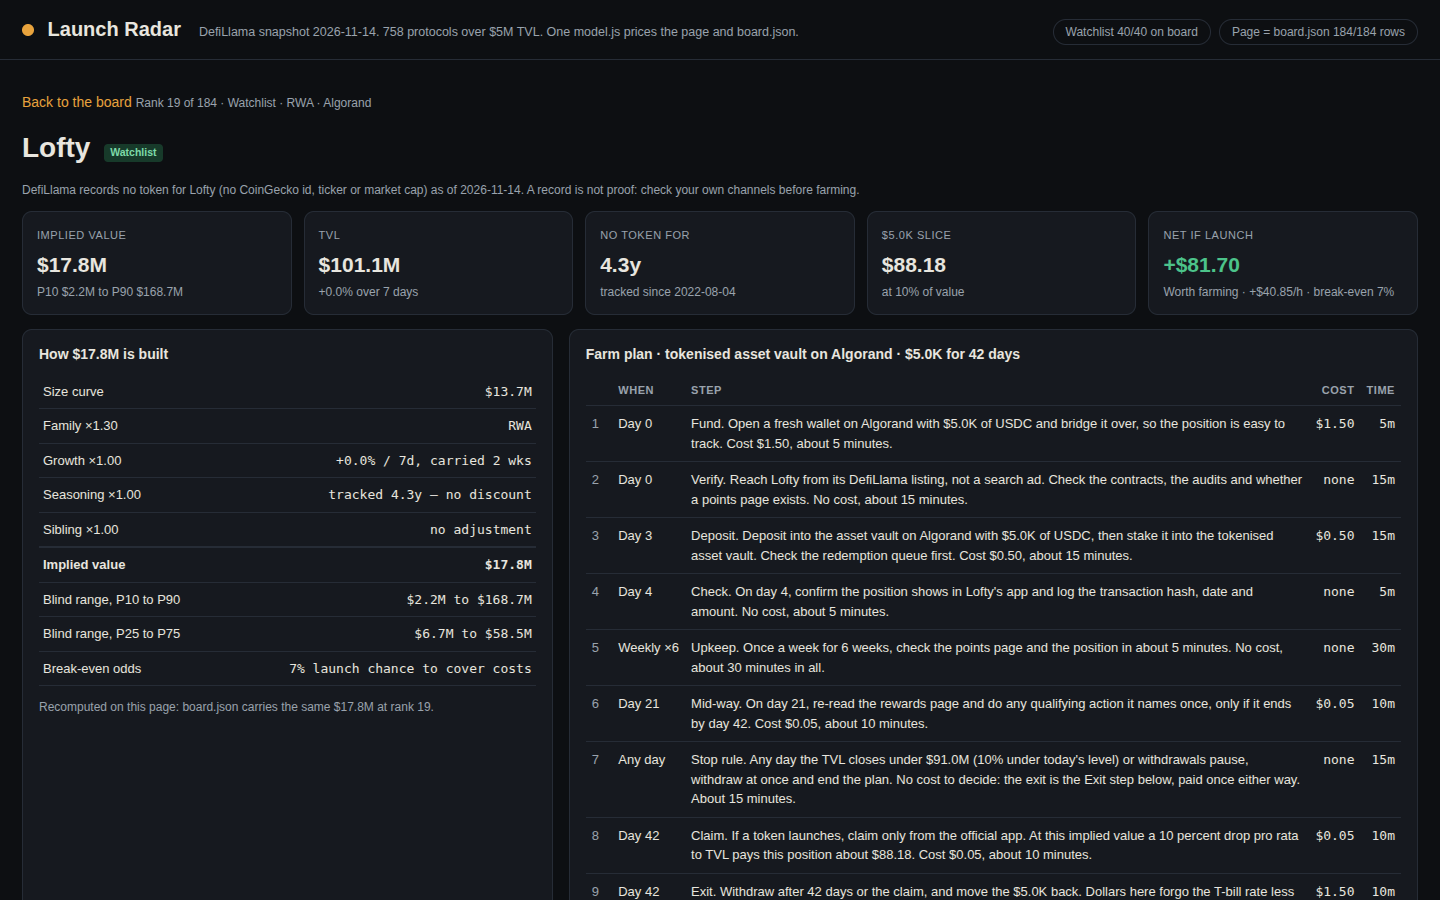
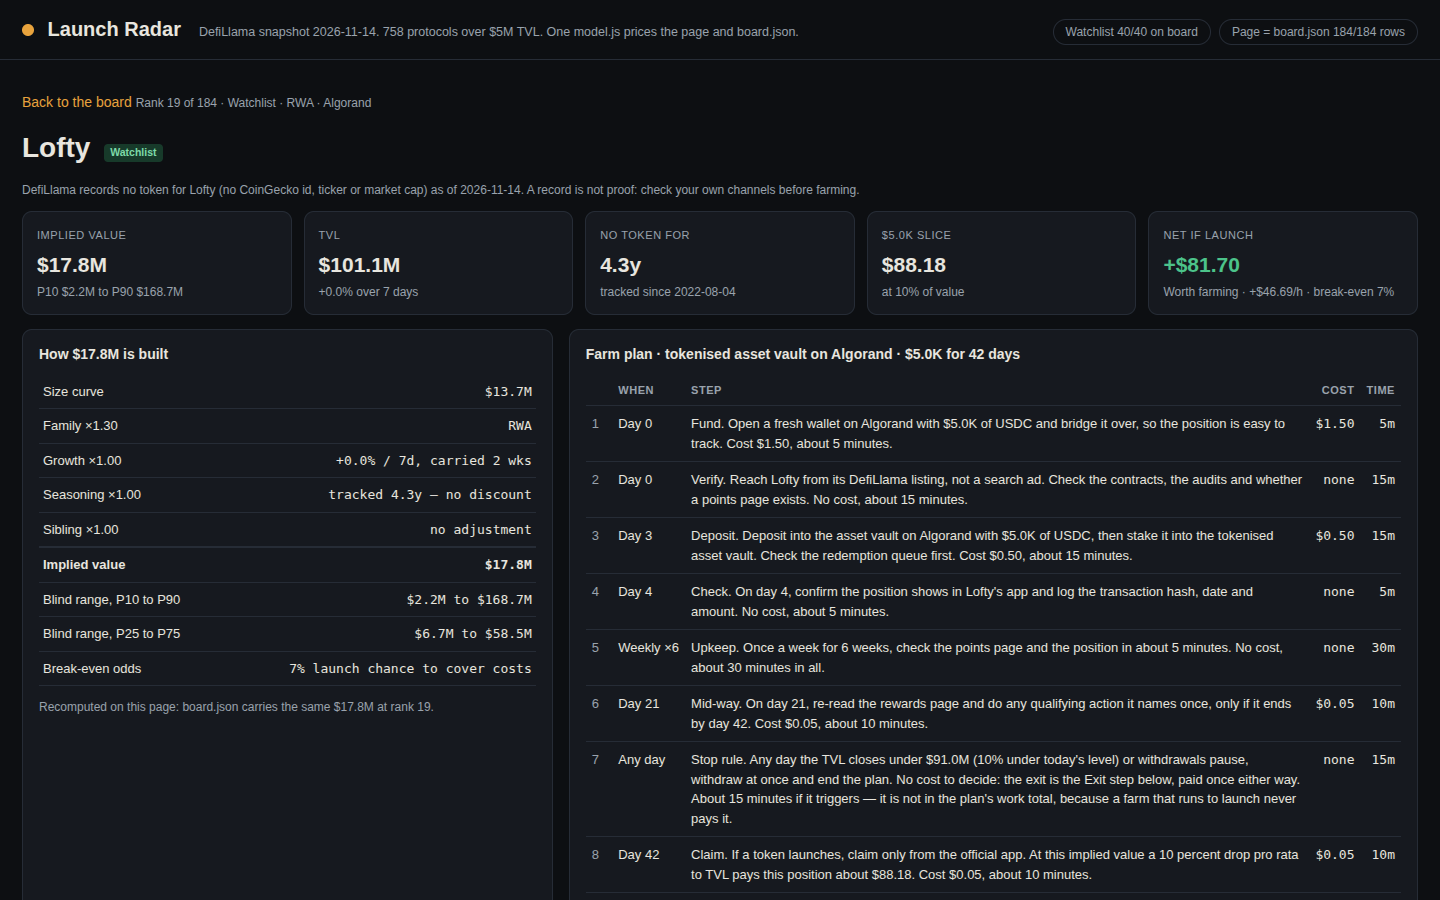
v6: work hours count the completion path (105 min, stop rule excluded)
The 120-minute total counted both the stop-rule exit (15 min) and the
Exit step (10 min) - a path that never happens: a farm either exits
early via the stop rule or exits at day 42, never both. The net in
net-per-hour is the launch-case net, so the denominator must be the
completion-path time: 105 minutes. Same convention as the published
top entry (its steps sum to 170 minutes, its total reads 155).
Documented on the method page and in the stop-rule step text.
Effect: watchlist best net/hour Lofty $40.85 -> $46.69/h; counts,
curve, validation unchanged. Gate 7/7, determinism 2x byte-identical.

Changed region(s): [[0.4375, 0.8711, 0.9688, 0.9956]]

diff --git a/dashboard/app.js b/dashboard/app.js
@@ -507,7 +507,7 @@
       "<tr><td>Blind range multipliers, P10 / P25 / P75 / P90</td><td>x" + v.p10Mult.toFixed(2) + " / x" + v.p25Mult.toFixed(2) + " / x" + v.p75Mult.toFixed(2) + " / x" + v.p90Mult.toFixed(2) + "</td></tr>" +
       "</table><p class='fine'>The band is wide because launches are genuinely uncertain, and the board shows it instead of hiding it.</p>" +
       "<h3>Factor check</h3><p>The blind residuals correlate r = " + v.factorCheck.corrDays.toFixed(2) + " with log days without a token and r = " + v.factorCheck.corrGrowth.toFixed(2) + " with 7-day TVL change (" + v.factorCheck.n + " tokens with a listing date). The fitted seasoning slope is " + v.factorCheck.seasonSlope.toFixed(2) + " per decade of days — within noise. Neither an age effect nor a leftover momentum effect is confirmed, so seasoning is kept only as a bounded prior and growth is only the two-week carry.</p>" +
-      "<h3>Farm verdicts</h3><p>Verdict is break-even odds: (fees + T-bill forgone) / slice — the launch probability the farm needs to cover its costs. <b>Worth farming</b> at break-even odds ≤ 10% (pays if 1 hold in 10 sees a launch), <b>marginal</b> at ≤ 25%, else <b>skip</b>; a 7-day TVL fall past -30% caps the verdict at marginal. Farm economics: up to " + money(D.sliceCapital) + " of capital for " + D.farmDays + " days (a typical points-season window), the deposit scaled to the pool — 1bp of TVL, $500 to $5,000 — T-bill 4% a year less the deposit's 3.5% yield, so only the 0.5% spread is forgone, gas on the cheapest of the protocol's first three chains, a bridge leg each way at $1.00, claim $0.05. The deposit yield is a stated assumption, not a snapshot field: the median large stablecoin pool paid a 4.07% 30-day base APY against a 4.17% T-bill (DeFiLlama Research, 12 Nov 2026), so 3.5% sits below the median and is conservative. The farm is sized at " + money(D.sliceCapital) + " because that is the deployment a points-season farm actually runs; at a $1,000 cap the same rule gives 35 worth, 84 marginal and 65 skip, so the verdict still discriminates, but $5,000 is the calibrated size and the one the published top entry uses. At " + money(D.sliceCapital) + " it gives " + D.counts.farm + " worth, " + D.counts.thin + " marginal and " + D.counts.skip + " skip. Net per hour is net divided by the plan's work hours; the board's best on the watchlist is " + D.bestNetPerHour.map(function (r) { return r.name + " " + signed(r.netPerHour) + "/h"; }).join(", ") + ".</p>" +
+      "<h3>Farm verdicts</h3><p>Verdict is break-even odds: (fees + T-bill forgone) / slice — the launch probability the farm needs to cover its costs. <b>Worth farming</b> at break-even odds ≤ 10% (pays if 1 hold in 10 sees a launch), <b>marginal</b> at ≤ 25%, else <b>skip</b>; a 7-day TVL fall past -30% caps the verdict at marginal. Farm economics: up to " + money(D.sliceCapital) + " of capital for " + D.farmDays + " days (a typical points-season window), the deposit scaled to the pool — 1bp of TVL, $500 to $5,000 — T-bill 4% a year less the deposit's 3.5% yield, so only the 0.5% spread is forgone, gas on the cheapest of the protocol's first three chains, a bridge leg each way at $1.00, claim $0.05. The deposit yield is a stated assumption, not a snapshot field: the median large stablecoin pool paid a 4.07% 30-day base APY against a 4.17% T-bill (DeFiLlama Research, 12 Nov 2026), so 3.5% sits below the median and is conservative. The farm is sized at " + money(D.sliceCapital) + " because that is the deployment a points-season farm actually runs; at a $1,000 cap the same rule gives 35 worth, 84 marginal and 65 skip, so the verdict still discriminates, but $5,000 is the calibrated size and the one the published top entry uses. At " + money(D.sliceCapital) + " it gives " + D.counts.farm + " worth, " + D.counts.thin + " marginal and " + D.counts.skip + " skip. Net per hour is net divided by the plan's work hours. Work hours count the steps of a farm that runs to launch — 105 minutes; the stop rule's 15 minutes are not in the total, because a farm that runs to launch never pays them (its exit is the Exit step, paid once either way). The published top entry uses the same convention: its steps sum to 170 minutes and its total reads 155. The board's best on the watchlist is " + D.bestNetPerHour.map(function (r) { return r.name + " " + signed(r.netPerHour) + "/h"; }).join(", ") + ".</p>" +
       "<h3>Set aside by house rule</h3><table class='build'>" + setAsideRows + "<tr class='total'><td>Total set aside</td><td>" + D.setAsideCount + "</td></tr></table>" +
       "<p class='fine'>" + D.setAsideCount + " protocols never reach the board: category CEX, Bridge, Canonical Bridge, Liquid Staking, Liquid Restaking or Restaked BTC; a name carrying a whole word wrapped, staked or staking; a name ending in a version marker; a name beginning with an exchange; a name whose first word is one of its own chains — the chain's own product, whose token (if any) is the chain's token; or a name sharing its first word with a token that already trades. A protocol matching two rules is counted under the first. The watchlist is never set aside for its name: " + D.siblingHalf + " watchlist sibling stays on the board at half value. A wrapped or staked product of a token that already trades is not a token that does not exist yet.</p>" +
       "<h3>board.json = this page</h3><p>" + esc(verify.text) + "</p>" +

diff --git a/dashboard/model.js b/dashboard/model.js
@@ -347,7 +347,7 @@
       "Check. On day 4, confirm the position shows in " + name + "'s app and log the transaction hash, date and amount. No cost, about 5 minutes.",
       "Upkeep. Once a week for 6 weeks, check the points page and the position in about 5 minutes. No cost, about 30 minutes in all.",
       "Mid-way. On day 21, re-read the rewards page and do any qualifying action it names once, only if it ends by day 42. Cost $" + MIDWAY_USD.toFixed(2) + ", about 10 minutes.",
-      "Stop rule. Any day the TVL closes under " + fmtMoney(stop) + " (10% under today's level) or withdrawals pause, withdraw at once and end the plan. No cost to decide: the exit is the Exit step below, paid once either way. About 15 minutes.",
+      "Stop rule. Any day the TVL closes under " + fmtMoney(stop) + " (10% under today's level) or withdrawals pause, withdraw at once and end the plan. No cost to decide: the exit is the Exit step below, paid once either way. About 15 minutes if it triggers — it is not in the plan's work total, because a farm that runs to launch never pays it.",
       "Claim. If a token launches, claim only from the official app. At this implied value a 10 percent drop pro rata to TVL pays this position about " + fmtMoney(slice) + ". Cost $" + CLAIM_USD.toFixed(2) + ", about 10 minutes.",
       "Exit. Withdraw after " + FARM_DAYS + " days or the claim, and move the " + fmtMoney(capital) + " back. Dollars here forgo the T-bill rate less the deposit's yield — 0.5% a year net. Cost $" + (gas + BRIDGE_USD).toFixed(2) + ", about 10 minutes.",
       "Close out. Log the outcome, the net and whether the farm beat a T-bill at this size, so the next farm starts from a record, not a guess. No cost, about 5 minutes.",
@@ -356,6 +356,12 @@
     var minutes = [5, 15, 15, 5, 30, 10, 15, 10, 10, 5];
     var minutesTotal = 0, i;
     for (i = 0; i < minutes.length; i++) minutesTotal += minutes[i];
+    // The stop rule (step 7, minutes[6]) is spent only if the farm exits
+    // early; a farm that runs to launch never pays it, and the net in
+    // net-per-hour is the launch-case net, so the work total counts only
+    // the completion path: 105 minutes. Same convention as the published
+    // top entry, whose steps sum to 170 minutes and whose total reads 155.
+    minutesTotal -= minutes[6];
     return {
       steps: steps, stepWhen: when, slice: slice, fees: fees, tbill: tbill, net: net,
       odds: odds, verdict: verdict, method: method, capital: capital,
